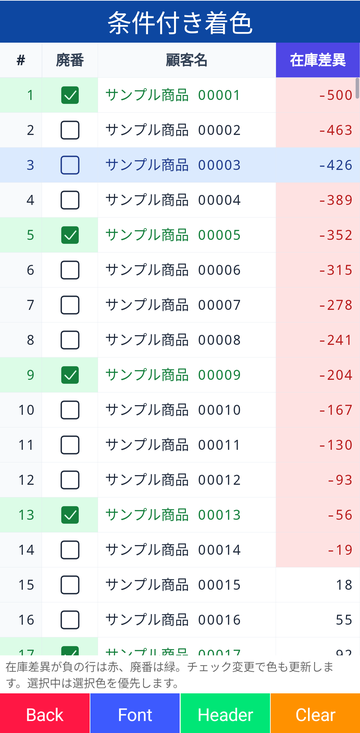
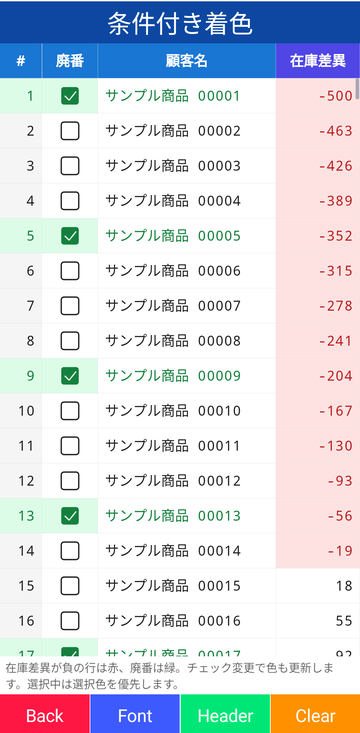
Update

diff --git a/Example/Resources/Styles/Styles.xaml b/Example/Resources/Styles/Styles.xaml
@@ -12,8 +12,8 @@
     <Color x:Key="SecondaryTextColor">#99000000</Color>
     <Color x:Key="DisabledColor">#61000000</Color>
 
-    <Color x:Key="GridSortableColor">#4CAF50</Color>
-    <Color x:Key="GridUnsortableColor">#9E9E9E</Color>
+    <Color x:Key="GridSortableColor">#2E7D32</Color>
+    <Color x:Key="GridUnsortableColor">#616161</Color>
     <Color x:Key="GridSelectedTextColor">White</Color>
     <Color x:Key="GridSelectedBackgroundColor">#448AFF</Color>
 
@@ -344,11 +344,11 @@
                     ShowRowHeaders="False"
                     TextColor="Black"
                     Background="White"
-                    HeaderTextColor="Black"
-                    HeaderBackground="#E0E0E0"
+                    HeaderTextColor="White"
+                    HeaderBackground="#424242"
                     GridLineColor="Gray"
-                    AscendingHeaderBackground="#90CAF9"
-                    DescendingHeaderBackground="#FFCC80"
+                    AscendingHeaderBackground="#1565C0"
+                    DescendingHeaderBackground="#EF6C00"
                     AscendingSortMark="▲"
                     DescendingSortMark="▼" />
 

diff --git a/ClamGrid/Rendering/GridRenderer.cs b/ClamGrid/Rendering/GridRenderer.cs
@@ -28,7 +28,20 @@ internal sealed class GridRenderer : IDisposable
 
     public int Measurements { get; private set; }
 
-    public double AutoRowHeight { get; }
+    // Includes every font resolved so far, so fonts found while measuring the headers and sample rows widen the automatic height
+    public double AutoRowHeight
+    {
+        get
+        {
+            var height = LineHeight(primary);
+            foreach (var fonts in fallbacks.Concat(fallbackByFamily.Values))
+            {
+                height = Math.Max(height, LineHeight(fonts));
+            }
+
+            return Math.Ceiling(height + (style.VerticalPadding * 2));
+        }
+    }
 
     public GridRenderer(GridStyle style)
     {
@@ -37,13 +50,6 @@ internal sealed class GridRenderer : IDisposable
         primary = new FontSet(SKTypeface.FromFamilyName(style.FontFamily), style.FontSize);
         languages = GridFonts.Languages.Count > 0 ? GridFonts.Languages.ToArray() : null;
         fallbacks = GridFonts.Fallbacks.Select(typeface => new FontSet(typeface, style.FontSize, false)).ToArray();
-        var height = primary.Font.Metrics.Descent - primary.Font.Metrics.Ascent;
-        foreach (var fonts in fallbacks)
-        {
-            height = Math.Max(height, fonts.Font.Metrics.Descent - fonts.Font.Metrics.Ascent);
-        }
-
-        AutoRowHeight = Math.Ceiling(height + (style.VerticalPadding * 2));
     }
 
     public static string FormatValue(object? value, string? format) =>
@@ -120,9 +126,10 @@ internal sealed class GridRenderer : IDisposable
 
         canvas.Restore();
         var corner = new GridRect(0, 0, layout.RowHeaderWidth, layout.HeaderHeight);
-        Fill(canvas, corner, style.RowHeaderBackground);
-        DrawText(canvas, corner, style.CornerText, TextAlignment.Center, true, style.TextColor);
+        Fill(canvas, corner, style.HeaderBackground);
+        DrawText(canvas, corner, style.CornerText, TextAlignment.Center, true, style.HeaderTextColor);
         DrawLines(canvas, corner);
+        DrawFrozenLine(canvas, layout);
         DrawScrollbars(canvas, layout);
         return rendered;
     }
@@ -264,6 +271,8 @@ internal sealed class GridRenderer : IDisposable
     private static SKRect ToSkRect(GridRect rect) => new((float)rect.X, (float)rect.Y, (float)rect.Right, (float)rect.Bottom);
 
     private static string Sanitize(string text) => text.Replace('\r', ' ').Replace('\n', ' ');
+
+    private static float LineHeight(FontSet fonts) => fonts.Font.Metrics.Descent - fonts.Font.Metrics.Ascent;
 
     // Variation selectors and joiners have no glyph without shaping, so they only steer the font choice and are not drawn
     private static string StripSelectors(string text) => text.AsSpan().IndexOfAny(Selectors) < 0 ? text : text.Replace("\uFE0F", String.Empty, StringComparison.Ordinal).Replace("\uFE0E", String.Empty, StringComparison.Ordinal).Replace("\u200D", String.Empty, StringComparison.Ordinal);
@@ -534,6 +543,21 @@ internal sealed class GridRenderer : IDisposable
         paint.Style = SKPaintStyle.Fill;
         paint.Color = color.ToSKColor();
         canvas.DrawRect(ToSkRect(rect), paint);
+    }
+
+    // Marks the right edge of the frozen columns so the boundary to the scrolling columns stays visible
+    private void DrawFrozenLine(SKCanvas canvas, GridLayout layout)
+    {
+        if ((layout.FrozenColumnCount == 0) || (layout.FrozenWidth <= 0))
+        {
+            return;
+        }
+
+        paint.Style = SKPaintStyle.Stroke;
+        paint.StrokeWidth = 2;
+        paint.Color = style.FrozenLineColor.ToSKColor();
+        var x = (float)(layout.RowHeaderWidth + layout.FrozenWidth) - 1;
+        canvas.DrawLine(x, 0, x, (float)layout.ViewportHeight, paint);
     }
 
     private void DrawLines(SKCanvas canvas, GridRect rect)

diff --git a/ClamGrid/GridStyle.cs b/ClamGrid/GridStyle.cs
@@ -27,25 +27,28 @@ public sealed record GridStyle
 
     public TextAlignment RowHeaderAlignment { get; set; } = TextAlignment.End;
 
-    public Color TextColor { get; set; } = Color.FromArgb("#1E293B");
+    // Default colors follow the Material palette: Blue 700 header, Cyan 700 and Orange 700 for the sorted column, Blue 100 selection and Gray tints
+    public Color TextColor { get; set; } = Color.FromArgb("#212121");
 
     public Color Background { get; set; } = Colors.White;
 
-    public Color HeaderBackground { get; set; } = Color.FromArgb("#F8FAFC");
+    public Color HeaderBackground { get; set; } = Color.FromArgb("#1976D2");
 
-    public Color HeaderTextColor { get; set; } = Color.FromArgb("#334155");
+    public Color HeaderTextColor { get; set; } = Colors.White;
 
-    public Color RowHeaderBackground { get; set; } = Color.FromArgb("#F8FAFC");
+    public Color RowHeaderBackground { get; set; } = Color.FromArgb("#F5F5F5");
 
-    public Color GridLineColor { get; set; } = Color.FromArgb("#E2E8F0");
+    public Color GridLineColor { get; set; } = Color.FromArgb("#E0E0E0");
 
-    public Color SelectedBackground { get; set; } = Color.FromArgb("#DBEAFE");
+    public Color FrozenLineColor { get; set; } = Color.FromArgb("#9E9E9E");
 
-    public Color SelectedTextColor { get; set; } = Color.FromArgb("#1E3A8A");
+    public Color SelectedBackground { get; set; } = Color.FromArgb("#BBDEFB");
 
-    public Color AscendingHeaderBackground { get; set; } = Color.FromArgb("#E0E7FF");
+    public Color SelectedTextColor { get; set; } = Color.FromArgb("#0D47A1");
 
-    public Color DescendingHeaderBackground { get; set; } = Color.FromArgb("#FEF3C7");
+    public Color AscendingHeaderBackground { get; set; } = Color.FromArgb("#0097A7");
+
+    public Color DescendingHeaderBackground { get; set; } = Color.FromArgb("#F57C00");
 
     // Sort marks are drawn next to the header text; ShowSortPriority also marks secondary keys with their priority
     public string AscendingSortMark { get; set; } = "↑";

diff --git a/Example/Modules/Grid/QualityVerifier.Scenarios.cs b/Example/Modules/Grid/QualityVerifier.Scenarios.cs
@@ -15,7 +15,7 @@ public sealed partial class QualityVerifier
             var frame = await NextFrameAsync(() => ScenarioGridFactory.Configure(grid, scenario, data)).ConfigureAwait(true);
             Check($"{scenario.Key}: columns and visible painting", grid.Columns.Count == scenario.Columns.Count && frame.RenderedCells > 0 && !grid.GridStyle.ShowRowHeaders);
             Check($"{scenario.Key}: source keys and values", grid.Columns.All(column => column.ValueAccessor.GetValue(data[0]) is string));
-            Check($"{scenario.Key}: header colors independent of sorting", grid.Columns.Zip(scenario.Columns).All(pair => pair.First.AllowSorting == pair.Second.AllowSorting && Equals(pair.First.HeaderBackground, Color.FromArgb(pair.Second.GreenHeader ? "#4CAF50" : "#9E9E9E"))));
+            Check($"{scenario.Key}: header colors independent of sorting", grid.Columns.Zip(scenario.Columns).All(pair => pair.First.AllowSorting == pair.Second.AllowSorting && Equals(pair.First.HeaderBackground, Color.FromArgb(pair.Second.GreenHeader ? "#2E7D32" : "#616161"))));
             scenario.SelectAll(data, true);
             Check($"{scenario.Key}: bulk selection", data.SelectedCount == (scenario.SingleSelection ? 0 : Enumerable.Range(0, 120).Count(id => scenario.IsPending(new TicketRow(id)))));
             scenario.SelectAll(data, false);

diff --git a/Example/Modules/Grid/ScenarioGridFactory.cs b/Example/Modules/Grid/ScenarioGridFactory.cs
@@ -7,9 +7,9 @@ internal static class ScenarioGridFactory
         ShowRowHeaders = false,
         FontFamily = "monospace",
         TextColor = Colors.Black,
-        HeaderTextColor = Colors.Black,
-        AscendingHeaderBackground = Color.FromArgb("#90CAF9"),
-        DescendingHeaderBackground = Color.FromArgb("#FFCC80"),
+        HeaderTextColor = Colors.White,
+        AscendingHeaderBackground = Color.FromArgb("#1565C0"),
+        DescendingHeaderBackground = Color.FromArgb("#EF6C00"),
         GridLineColor = Colors.Gray,
         SelectedBackground = Color.FromArgb("#448AFF"),
         SelectedTextColor = Colors.White,
@@ -21,7 +21,7 @@ internal static class ScenarioGridFactory
         {
             Width = GridColumnWidth.Absolute(column.Width),
             Alignment = column.AlignEnd ? TextAlignment.End : TextAlignment.Start,
-            HeaderBackground = Color.FromArgb(column.GreenHeader ? "#4CAF50" : "#9E9E9E"),
+            HeaderBackground = Color.FromArgb(column.GreenHeader ? "#2E7D32" : "#616161"),
             AllowSorting = column.AllowSorting
         }).ToArray();
 

diff --git a/ClamGrid.Tests/Rendering/GridRendererTests.cs b/ClamGrid.Tests/Rendering/GridRendererTests.cs
@@ -125,6 +125,23 @@ public sealed class GridRendererTests
         Assert.Equal("5", plain);
     }
 
+    [Fact]
+    public void AutoRowHeightIncludesFontsResolvedWhileMeasuring()
+    {
+        // Arrange
+        using var renderer = new GridRenderer(new GridStyle());
+        var before = renderer.AutoRowHeight;
+        var column = new GridColumn("id", "日本語の見出し", new GridValueAccessor<Item, int>(static x => x.Id));
+
+        // Act
+        renderer.MeasureColumns([column], [new Item(1)], 500, 1, null);
+        var after = renderer.AutoRowHeight;
+
+        // Assert
+        Assert.True(after >= before);
+        Assert.Equal(after, renderer.AutoRowHeight);
+    }
+
     private static GridDataView<Item> CreateView(GridSortOrder[] orders)
     {
         Item[] items = [new(1), new(2)];

diff --git a/Example/Modules/Grid/QualityVerifier.Colors.cs b/Example/Modules/Grid/QualityVerifier.Colors.cs
@@ -166,6 +166,8 @@ public sealed partial class QualityVerifier
             Check("frozen: hit test resolves the frozen column", probe.HitTest(60, 60).ColumnIndex == 0);
             Check("frozen: hit test shifts scrolling columns by the offset", probe.HitTest(160, 60).ColumnIndex == 1);
             Check("frozen: frame reports the frozen count and scrolling range", (probe.LastFrame!.FrozenColumns == 1) && (probe.LastFrame.Columns.Start == 1) && probe.ScrollX.Equals(100d));
+            var edge = ToBitmapRect(bitmap, new Rect(147, 60, 1, 1));
+            Check("frozen: separator line on the frozen edge", bitmap.GetPixel((int)edge.X, (int)edge.Y) == probe.GridStyle.FrozenLineColor.ToSKColor());
         }
 
         await NextFrameAsync(() =>

diff --git a/README.md b/README.md
@@ -273,17 +273,20 @@ Messaging, navigation and screen controllers are application concerns; the libra
 
 ## 🎨 GridStyle
 
+The default colors follow the Material palette: Blue 700 header with white text, Cyan 700 and Orange 700 for the ascending and descending primary sort key, Blue 100 selection and Gray tints for lines and row headers.
+
 | Name | Type | Default | Description |
 |---|---|---|---|
 | `FontFamily` | `string` | `monospace` | Primary font. Characters it lacks are resolved through `GridFonts`. |
 | `FontSize` | `float` | `16` | Font size in DIP. |
 | `HorizontalPadding`, `VerticalPadding` | `float` | `8` | Cell padding in DIP. |
-| `RowHeight`, `HeaderHeight` | `double?` | `null` | `null` derives the height from the font. |
+| `RowHeight`, `HeaderHeight` | `double?` | `null` | `null` derives the height from the primary font and the fallback fonts resolved while measuring the headers and sample rows. |
 | `RowHeaderWidth` | `double` | `48` | Width of the row header. |
 | `ShowColumnHeaders`, `ShowRowHeaders`, `ShowVerticalLines` | `bool` | `true` | Visibility of the headers and vertical lines. |
 | `CornerText` | `string` | `#` | Text of the corner cell above the row headers. |
 | `RowHeaderAlignment` | `TextAlignment` | `End` | Alignment of the row header text. |
 | `TextColor`, `Background`, `HeaderBackground`, `HeaderTextColor`, `RowHeaderBackground`, `GridLineColor`, `SelectedBackground`, `SelectedTextColor` | `Color` | | Base colors. |
+| `FrozenLineColor` | `Color` | `#9E9E9E` | Separator drawn on the right edge of the frozen columns. |
 | `AscendingHeaderBackground`, `DescendingHeaderBackground` | `Color` | | Header background of the primary sort key. |
 | `AscendingSortMark`, `DescendingSortMark` | `string` | `↑`, `↓` | Text drawn next to the header of a sorted column. The mark is kept when the header text has to be truncated. |
 | `SortMarkPosition` | `GridSortMarkPosition` | `Start` | `Start` draws the mark before the header text, `End` after it. |
